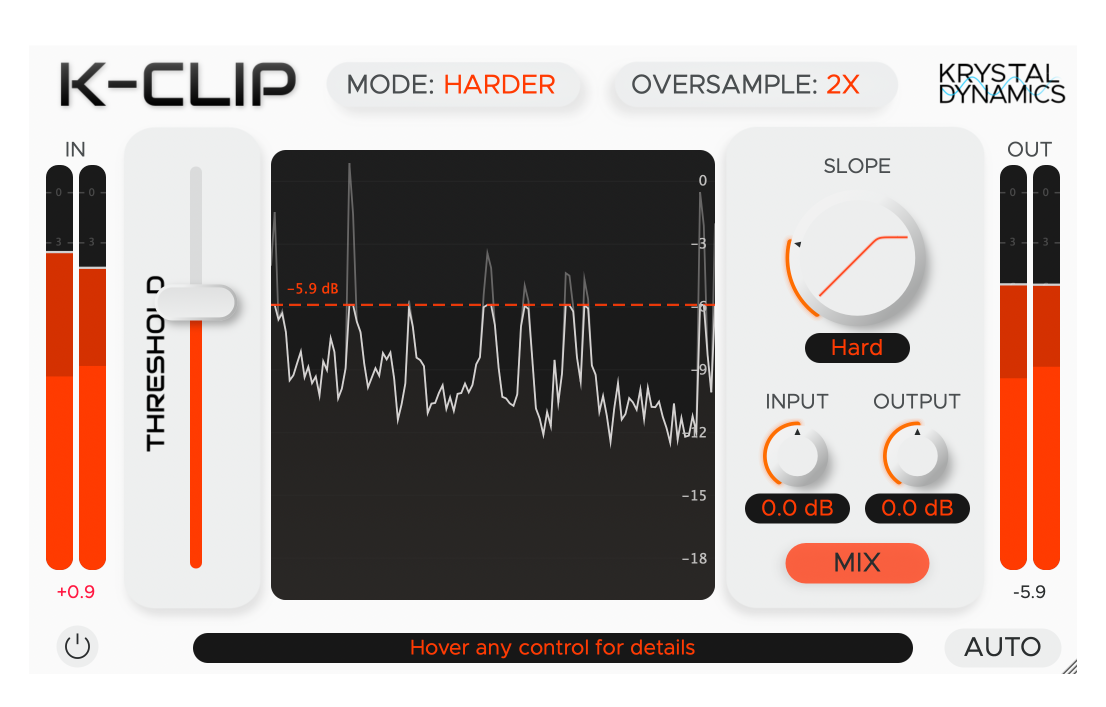
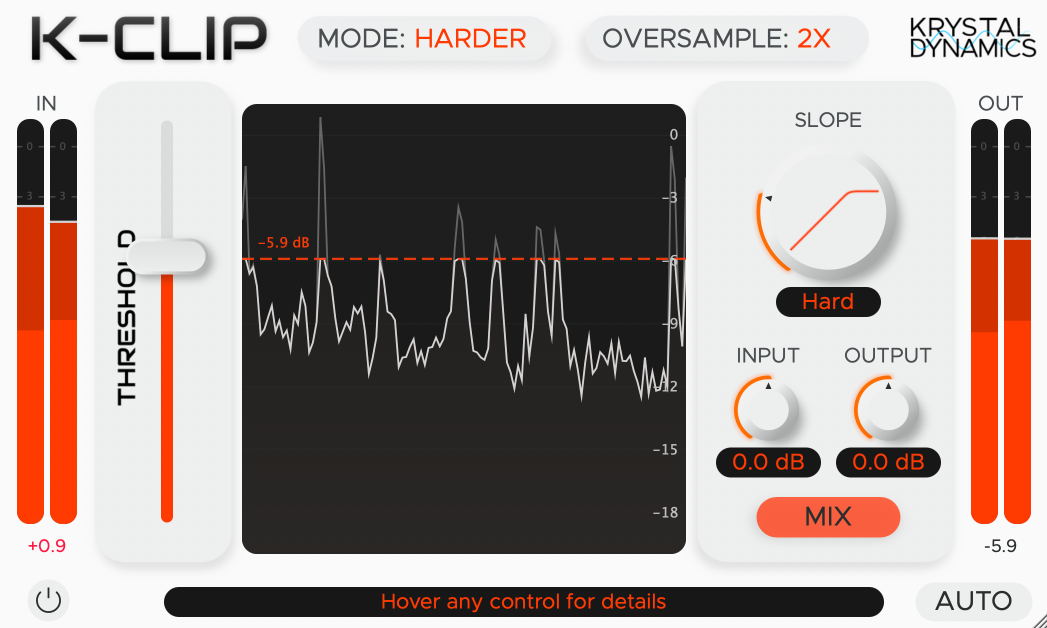
Add files via upload

diff --git a/index.html b/index.html
@@ -39,9 +39,10 @@
                 <article class="plugin-item">
                     <div class="container">
                         <div class="plugin-grid">
-                            <div class="plugin-image">
-                                <img src="assets/images/k-field-interface.png" alt="KrystalField Interface" fetchpriority="high">
-                            </div>
+                            <div class="plugin-detail-image-carousel" data-images='[
+                                "../assets/images/k-field-interface-1.png",
+                                "../assets/images/k-field-interface-2.png"
+                            ]'></div>
                             <div class="plugin-content">
                                 <h3>KrystalField</h3>
                                 <p>A mastering-grade dynamic processor with dual compression engines for simultaneous downward and upward compression. Features advanced detection modes and real-time waveform visualization.</p>
@@ -59,9 +60,11 @@
                 <article class="plugin-item plugin-item-reverse">
                     <div class="container">
                         <div class="plugin-grid plugin-grid-reverse">
-                            <div class="plugin-image">
-                                <img src="assets/images/k-clip-interface-1.png" alt="KrystalClip Interface" loading="lazy">
-                            </div>
+                            <div class="plugin-detail-image-carousel" data-images='[
+                                "../assets/images/k-clip-interface-1.png",
+                                "../assets/images/k-clip-interface-2.png",
+                                "../assets/images/k-clip-interface-3.png"
+                            ]'></div>
                             <div class="plugin-content">
                                 <h3>KrystalClip</h3>
                                 <p>A multi-modal clipper plugin with controllable threshold and slope. It also includes oversampling up to 8x to remove any aliasing that may be introduced by the process.</p>
@@ -79,9 +82,10 @@
                 <article class="plugin-item">
                     <div class="container">
                         <div class="plugin-grid">
-                            <div class="plugin-image">
-                                <img src="assets/images/k-comp-interface.png" alt="KrystalComp Interface" loading="lazy">
-                            </div>
+                            <div class="plugin-detail-image-carousel" data-images='[
+                                "../assets/images/k-comp-interface-1.png",
+                                "../assets/images/k-comp-interface-2.png"
+                            ]'></div>
                             <div class="plugin-content">
                                 <h3>KrystalComp</h3>
                                 <p>A precise digital dynamics processor with complete control over every aspect of the compression process. Features flexible sidechain options, multiple detection modes, and comprehensive metering.</p>
